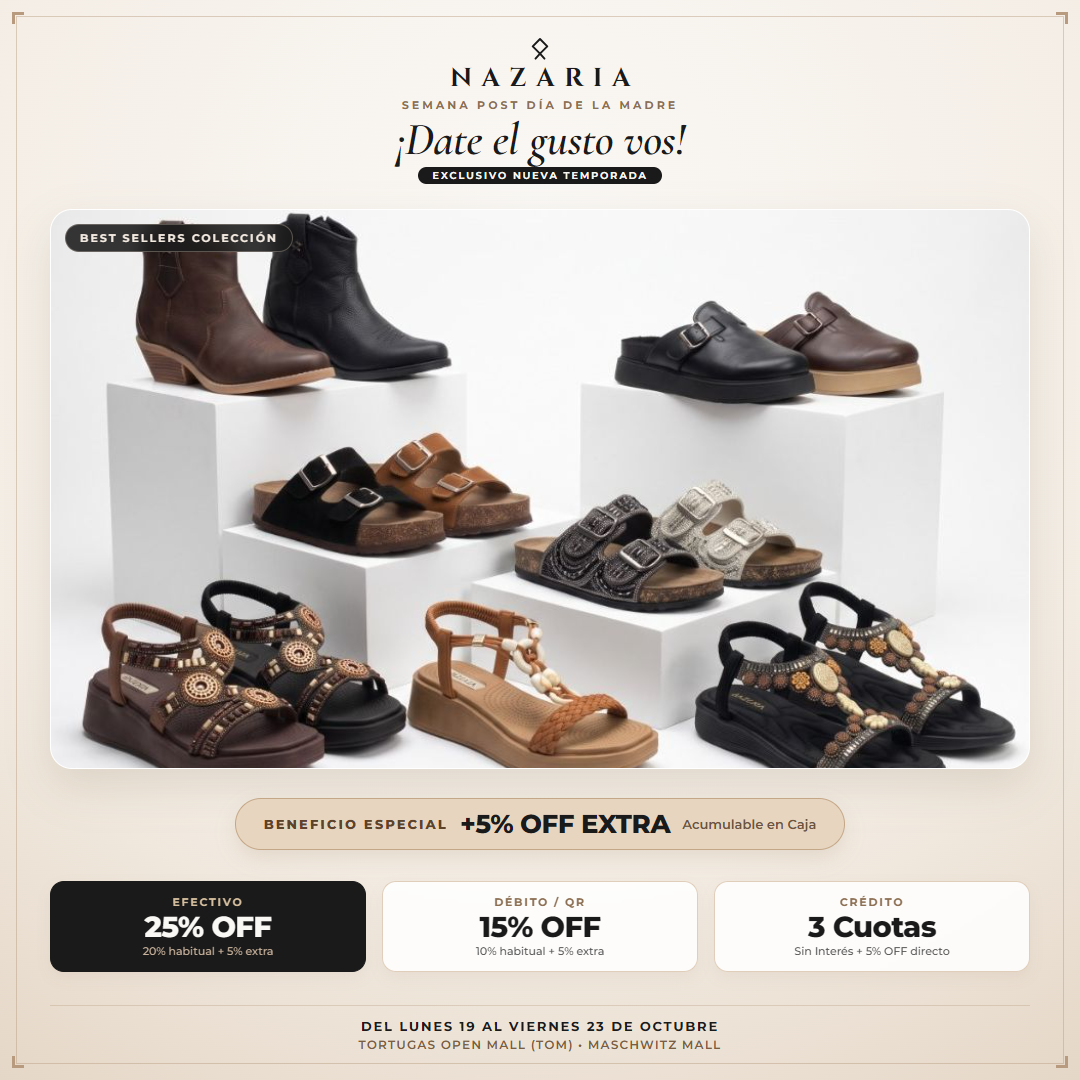
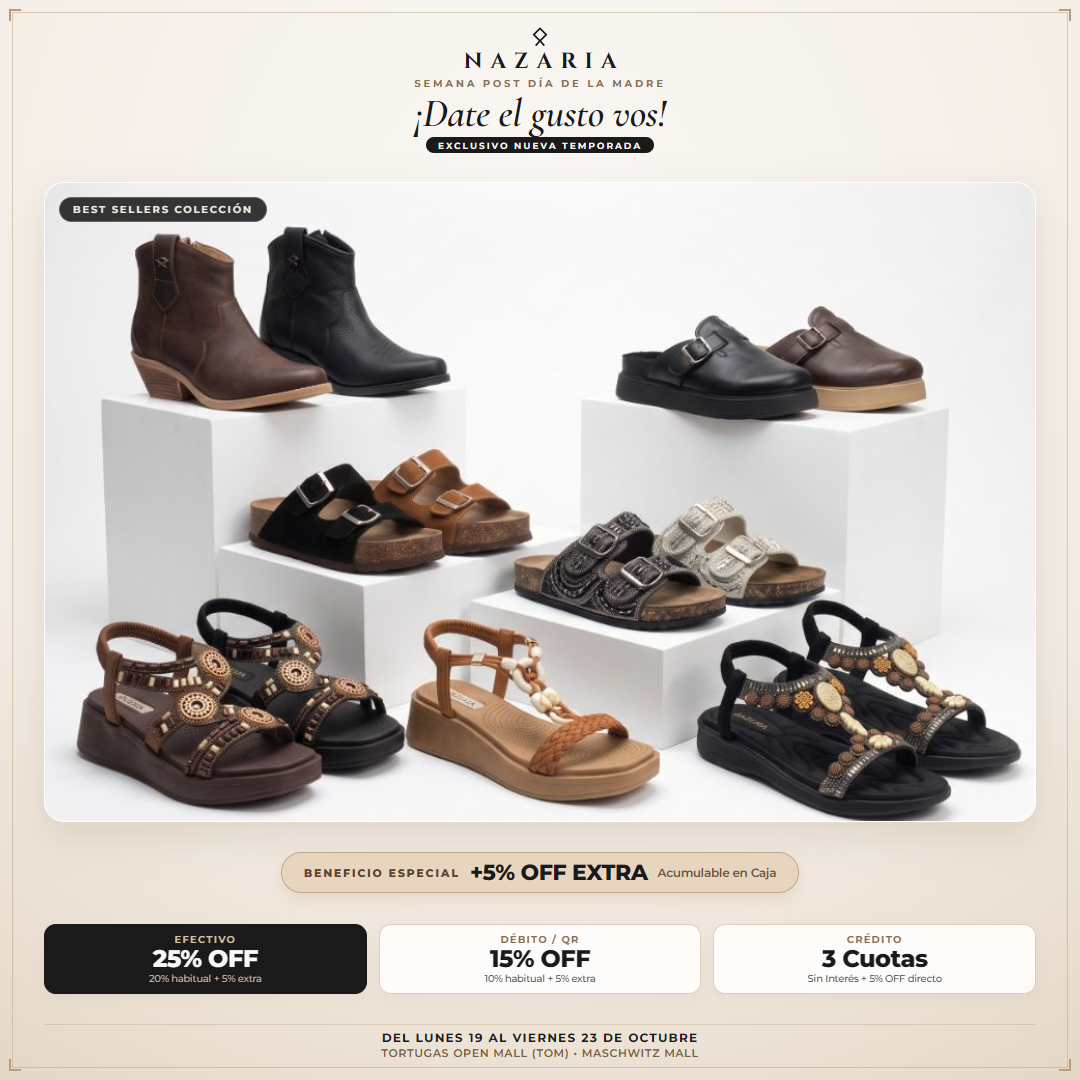
fix(flyers): expand podium container to 640px to show 100% complete shoes and soles in feed

diff --git a/flyers/feed_podium.html b/flyers/feed_podium.html
@@ -19,13 +19,13 @@
       display: flex;
       flex-direction: column;
       justify-content: space-between;
-      padding: 34px 50px 28px;
+      padding: 24px 44px 20px;
     }
 
     /* Borde editorial fino */
     .frame-border {
       position: absolute;
-      inset: 16px;
+      inset: 12px;
       border: 1.5px solid rgba(184, 155, 126, 0.45);
       pointer-events: none;
       z-index: 10;
@@ -39,10 +39,10 @@
       pointer-events: none;
       z-index: 11;
     }
-    .fc-tl { top: 12px; left: 12px; border-width: 3px 0 0 3px; }
-    .fc-tr { top: 12px; right: 12px; border-width: 3px 3px 0 0; }
-    .fc-bl { bottom: 12px; left: 12px; border-width: 0 0 3px 3px; }
-    .fc-br { bottom: 12px; right: 12px; border-width: 0 3px 3px 0; }
+    .fc-tl { top: 9px; left: 9px; border-width: 2.5px 0 0 2.5px; }
+    .fc-tr { top: 9px; right: 9px; border-width: 2.5px 2.5px 0 0; }
+    .fc-bl { bottom: 9px; left: 9px; border-width: 0 0 2.5px 2.5px; }
+    .fc-br { bottom: 9px; right: 9px; border-width: 0 2.5px 2.5px 0; }
 
     /* Header */
     .header {
@@ -57,33 +57,33 @@
       display: flex;
       flex-direction: column;
       align-items: center;
-      gap: 4px;
+      gap: 3px;
       color: #1A1A1A;
-      margin-bottom: 6px;
+      margin-bottom: 4px;
     }
     .brand-icon {
-      width: 28px;
-      height: 28px;
+      width: 24px;
+      height: 24px;
     }
     .brand-name {
       font-family: 'Cinzel', 'Cormorant Garamond', serif;
-      font-size: 26px;
+      font-size: 22px;
       font-weight: 700;
       letter-spacing: 0.36em;
       margin-right: -0.36em;
       line-height: 1;
     }
     .kicker {
-      font-size: 11px;
+      font-size: 10px;
       letter-spacing: 0.28em;
       text-transform: uppercase;
       font-weight: 700;
       color: #8C6F52;
-      margin-bottom: 3px;
+      margin-bottom: 2px;
     }
     .main-title {
       font-family: 'Cormorant Garamond', serif;
-      font-size: 46px;
+      font-size: 40px;
       font-style: italic;
       font-weight: 600;
       color: #1A1A1A;
@@ -92,26 +92,26 @@
     }
     .season-badge {
       display: inline-block;
-      margin-top: 4px;
+      margin-top: 3px;
       background: #1A1A1A;
       color: #FAF8F5;
-      font-size: 9.5px;
+      font-size: 9px;
       letter-spacing: 0.22em;
       text-transform: uppercase;
       font-weight: 700;
-      padding: 3px 14px;
+      padding: 2.5px 12px;
       border-radius: 20px;
     }
 
     /* Showcase con Podio de Estudio Limpio */
     .podium-container {
-      height: 560px;
+      height: 640px;
       margin: 4px 0 6px;
       position: relative;
       z-index: 2;
-      border-radius: 22px;
+      border-radius: 20px;
       overflow: hidden;
-      box-shadow: 0 18px 42px rgba(100, 75, 50, 0.14);
+      box-shadow: 0 16px 40px rgba(100, 75, 50, 0.14);
       border: 1.5px solid rgba(255, 255, 255, 0.95);
       background: #FFFFFF;
     }
@@ -119,7 +119,7 @@
       width: 100%;
       height: 100%;
       object-fit: cover;
-      object-position: center 52%;
+      object-position: center 50%;
       display: block;
     }
     .podium-badge {
@@ -129,8 +129,8 @@
       background: rgba(26, 26, 26, 0.88);
       backdrop-filter: blur(8px);
       color: #F4EBE2;
-      padding: 6px 14px;
-      font-size: 11px;
+      padding: 5px 13px;
+      font-size: 10px;
       font-weight: 700;
       letter-spacing: 0.18em;
       text-transform: uppercase;
@@ -142,35 +142,35 @@
     /* Promo Pill Central */
     .promo-highlight {
       text-align: center;
-      margin: 2px 0 10px;
+      margin: 0 0 6px;
       position: relative;
       z-index: 2;
     }
     .highlight-pill {
       display: inline-flex;
       align-items: center;
-      gap: 12px;
+      gap: 10px;
       background: #E8D5C0;
       border: 1.5px solid #C4A787;
-      padding: 9px 28px;
+      padding: 6px 22px;
       border-radius: 50px;
-      box-shadow: 0 8px 20px rgba(138, 107, 74, 0.15);
+      box-shadow: 0 6px 16px rgba(138, 107, 74, 0.15);
     }
     .pill-tag {
-      font-size: 13px;
+      font-size: 11px;
       font-weight: 800;
       letter-spacing: 0.16em;
       text-transform: uppercase;
       color: #5D4329;
     }
     .pill-value {
-      font-size: 26px;
+      font-size: 22px;
       font-weight: 800;
       color: #1A1A1A;
       letter-spacing: -0.02em;
     }
     .pill-sub {
-      font-size: 13px;
+      font-size: 11.5px;
       font-weight: 600;
       color: #6C543D;
     }
@@ -179,8 +179,8 @@
     .promos-grid {
       display: grid;
       grid-template-columns: repeat(3, 1fr);
-      gap: 16px;
-      margin-bottom: 12px;
+      gap: 12px;
+      margin-bottom: 6px;
       position: relative;
       z-index: 2;
     }
@@ -188,10 +188,10 @@
       background: rgba(255, 255, 255, 0.88);
       backdrop-filter: blur(8px);
       border: 1px solid #E0CEBB;
-      border-radius: 14px;
-      padding: 13px 12px;
+      border-radius: 12px;
+      padding: 9px 10px;
       text-align: center;
-      box-shadow: 0 6px 14px rgba(100, 75, 50, 0.06);
+      box-shadow: 0 4px 12px rgba(100, 75, 50, 0.06);
     }
     .promo-box.featured {
       background: #1A1A1A;
@@ -199,28 +199,28 @@
       border-color: #1A1A1A;
     }
     .promo-method {
-      font-size: 11px;
+      font-size: 9.5px;
       text-transform: uppercase;
       letter-spacing: 0.16em;
       font-weight: 700;
       color: #8C6F52;
-      margin-bottom: 3px;
+      margin-bottom: 2px;
     }
     .promo-box.featured .promo-method {
       color: #D6BF9E;
     }
     .promo-rate {
-      font-size: 29px;
+      font-size: 24px;
       font-weight: 800;
       line-height: 1;
-      margin-bottom: 3px;
+      margin-bottom: 2px;
       letter-spacing: -0.02em;
     }
     .promo-box.featured .promo-rate {
       color: #FAF8F5;
     }
     .promo-detail {
-      font-size: 11px;
+      font-size: 9.5px;
       font-weight: 500;
       color: #555;
     }
@@ -234,18 +234,18 @@
       position: relative;
       z-index: 2;
       border-top: 1px solid rgba(184, 155, 126, 0.35);
-      padding-top: 12px;
+      padding-top: 6px;
     }
     .footer-dates {
-      font-size: 13px;
+      font-size: 11.5px;
       font-weight: 700;
       letter-spacing: 0.14em;
       text-transform: uppercase;
       color: #1A1A1A;
-      margin-bottom: 3px;
+      margin-bottom: 2px;
     }
     .footer-branches {
-      font-size: 12px;
+      font-size: 10.5px;
       font-weight: 600;
       letter-spacing: 0.1em;
       color: #7A5E43;
